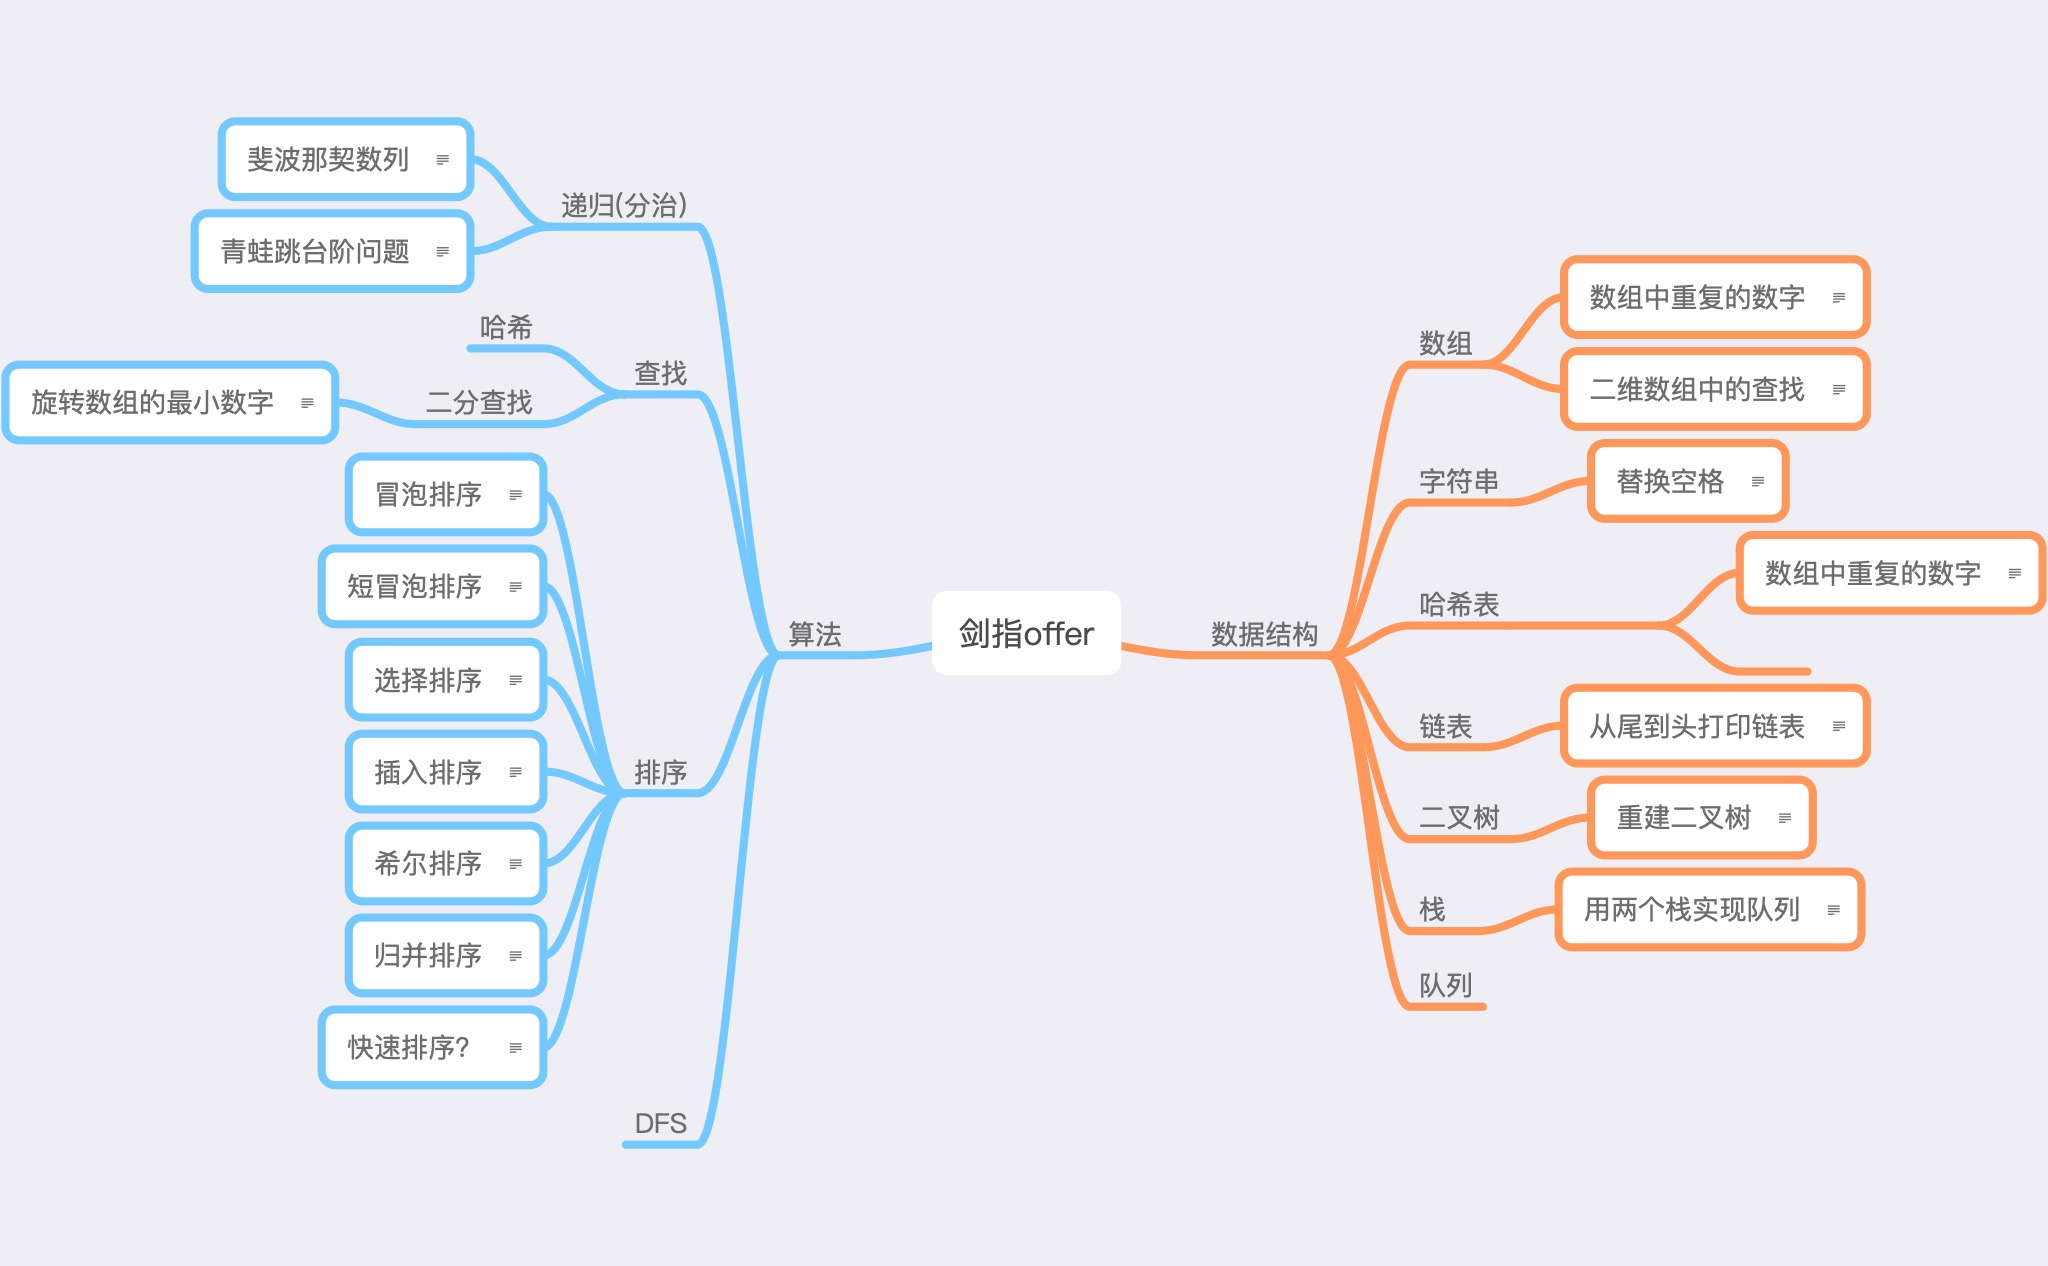
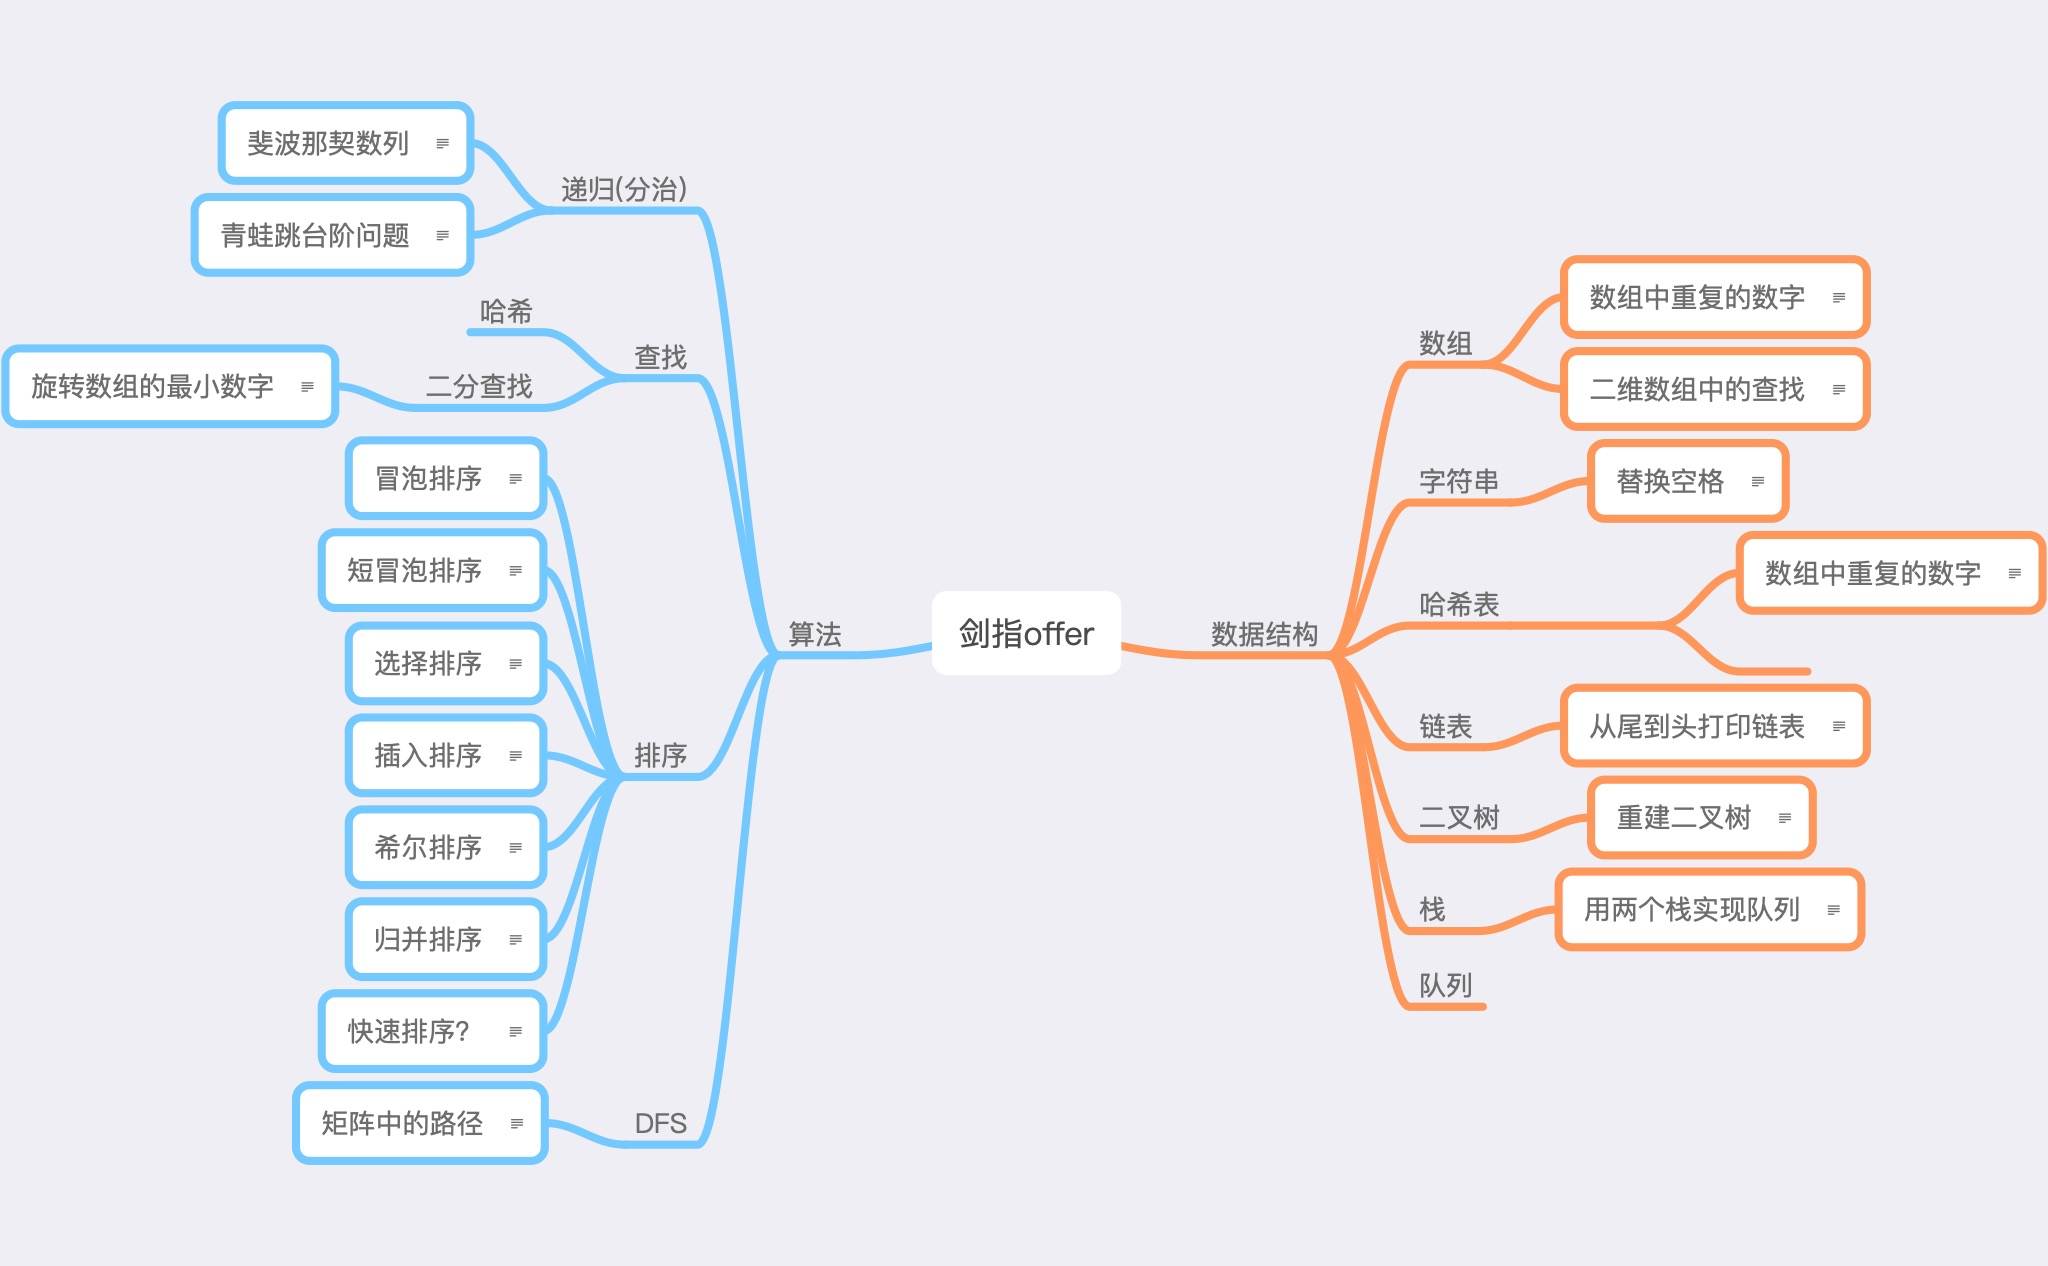
add

Changed region(s): [[0.0, 0.0616, 0.375, 0.9242], [0.3438, 0.1848, 0.375, 0.2156]]

diff --git a/offer-12/offer-12.py b/offer-12/offer-12.py
@@ -1,0 +1,45 @@
+#!/usr/bin/env python
+# -*- coding: utf-8 -*-
+# ylgongPw @ 2020-03-02 18:14:42
+
+from typing import List
+
+class Solution:
+    def exist(self, board: List[List[str]], word: str) -> bool:
+        """
+        DFS
+        """
+        rows = len(board)
+        cols = len(board[0])
+
+        def dfs(row, col, i):
+            if not 0 <= row < rows or not 0 <= col < cols or board[row][col] != word[i]:
+                return False
+            if i == len(word) - 1:
+                return True
+            tmp = board[row][col]
+            board[row][col] = '/' #已经遍历过,做标记
+
+            i += 1
+            res = dfs(row+1,col,i) or dfs(row-1,col,i) or dfs(row,col+1,i) or dfs(row,col-1,i)
+            board[row][col] = tmp #恢复
+            return res
+
+
+        for _row in range(rows):
+            for _col in range(cols):
+                if dfs(_row, _col, 0):
+                    return True
+
+        return False
+
+
+
+
+if __name__ == '__main__':
+    board = [["A","B","C","E"],["S","F","C","S"],["A","D","E","E"]]
+    word = "ABC"
+    S = Solution()
+    ret = S.exist(board, word)
+    print (ret)
+

diff --git a/interview_gold/interview_gold10.01/10.01.py b/interview_gold/interview_gold10.01/10.01.py
@@ -1,0 +1,49 @@
+#!/usr/bin/env python
+# -*- coding: utf-8 -*-
+# ylgongPw @ 2020-03-03 11:20:49
+from __future__ import unicode_literals
+from __future__ import absolute_import
+
+
+from typing import List
+
+class Solution:
+    def merge(self, A: List[int], m: int, B: List[int], n: int) -> None:
+        """
+        Do not return anything, modify A in-place instead.
+        A = [1,2,3,0,0,0], m = 3
+        B = [2,5,6],       n = 3
+
+        输出: [1,2,2,3,5,6]
+        """
+        pa = m - 1 #最后一位
+        pb = n - 1 #最后一位
+        tail = m + n - 1
+
+        while pa >= 0 or pb >= 0:
+            print (pb)
+            if pa == -1:
+                A[tail] = B[pb]
+                pb -= 1
+            elif pb == -1:
+                A[tail] = A[pa]
+                pa -= 1
+            elif A[pa] > B[pb]:
+                A[tail] = A[pa]
+                pa -= 1
+            else:
+                A[tail] = B[pb]
+                pb -= 1
+            tail -= 1
+
+if __name__ == '__main__':
+    A = [1,2,3,0,0,0]
+    m = 3
+    B = [2,5,6]
+    n = 3
+
+    S = Solution()
+    ret = S.merge(A,m,B,n)
+    print (ret)
+
+

diff --git a/offer-13/offer-13.py b/offer-13/offer-13.py
@@ -1,0 +1,39 @@
+#!/usr/bin/env python
+# -*- coding: utf-8 -*-
+# ylgongPw @ 2020-03-02 20:36:17
+from __future__ import unicode_literals
+from __future__ import absolute_import
+
+class Solution:
+    def movingCount(self, m: int, n: int, k: int) -> int:
+        counts = 0
+        rows = m
+        cols = n
+
+        stack = [(0,0)]
+        points = [(0,1),(0,-1),(1,0),(-1,0)]
+        visited = set()
+        visited.add("00")
+
+        while stack:
+            row,col = stack.pop()
+            if row + col <= k:
+                counts += 1
+
+            for p in points:
+                tmp_row = row + p[0]
+                tmp_col = col + p[1]
+                _str = "{}{}".format(tmp_row,tmp_col)
+                if 0 <= tmp_row < rows and 0<= tmp_col < cols and _str not in visited:
+                    visited.add(_str)
+                    stack.append((tmp_row,tmp_col))
+        return counts
+
+if __name__ == '__main__':
+    m = 11
+    n = 8
+    k = 17
+    S = Solution()
+    counts = S.movingCount(m,n,k)
+    print (counts)
+

diff --git a/offer-13/offer-13.1.py b/offer-13/offer-13.1.py
@@ -1,0 +1,25 @@
+#!/usr/bin/env python
+# -*- coding: utf-8 -*-
+# ylgongPw @ 2020-03-02 23:28:25
+from __future__ import unicode_literals
+from __future__ import absolute_import
+
+class Solution:
+    def movingCount(self, m: int, n: int, k: int) -> int:
+        def dfs(i, j, si, sj):
+            if not 0 <= i < m or not 0 <= j < n or k < si + sj or (i, j) in visited: return 0
+            visited.add((i,j))
+            return 1 + dfs(i + 1, j, si + 1 if (i + 1) % 10 else si - 8, sj) + dfs(i, j + 1, si, sj + 1 if (j + 1) % 10 else sj - 8)
+
+        visited = set()
+        return dfs(0, 0, 0, 0)
+
+
+if __name__ == '__main__':
+    m = 11
+    n = 8
+    k = 16
+    S = Solution()
+    counts = S.movingCount(m,n,k)
+    print (counts)
+

diff --git a/offer-12/offer-12.md b/offer-12/offer-12.md
@@ -1,0 +1,37 @@
+# 题目描述 
+
+```
+请设计一个函数，用来判断在一个矩阵中是否存在一条包含某字符串所有字符的路径。路径可以从矩阵中的任意一格开始，每一步可以在矩阵中向左、右、上、下移动一格。如果一条路径经过了矩阵的某一格，那么该路径不能再次进入该格子。例如，在下面的3×4的矩阵中包含一条字符串“bfce”的路径（路径中的字母用加粗标出）。
+
+[["a","b","c","e"],
+["s","f","c","s"],
+["a","d","e","e"]]
+
+但矩阵中不包含字符串“abfb”的路径，因为字符串的第一个字符b占据了矩阵中的第一行第二个格子之后，路径不能再次进入这个格子。
+
+示例 1：
+
+输入：board = [["A","B","C","E"],["S","F","C","S"],["A","D","E","E"]], word = "ABCCED"
+输出：true
+示例 2：
+
+输入：board = [["a","b"],["c","d"]], word = "abcd"
+输出：false
+
+来源：力扣（LeetCode）
+链接：https://leetcode-cn.com/problems/ju-zhen-zhong-de-lu-jing-lcof
+著作权归领扣网络所有。商业转载请联系官方授权，非商业转载请注明出处。
+```
+
+# 解题思路
+* 使用递归配合dfs解答 
+* 遍历每一个节点作为起始节点，在dfs中遍历该节点的上 下 左 右 如果遇到不等于目标值的,直接返回False
+
+
+
+## 解题代码
+
+[矩阵中的路径](offer-12.py)
+
+
+ 

diff --git a/interview_gold/interview_gold10.01/10.01.md b/interview_gold/interview_gold10.01/10.01.md
@@ -1,0 +1,33 @@
+# 题目描述 
+
+```
+给定两个排序后的数组 A 和 B，其中 A 的末端有足够的缓冲空间容纳 B。 编写一个方法，将 B 合并入 A 并排序。
+
+初始化 A 和 B 的元素数量分别为 m 和 n。
+
+示例:
+
+输入:
+A = [1,2,3,0,0,0], m = 3
+B = [2,5,6],       n = 3
+
+输出: [1,2,2,3,5,6]
+
+
+来源：力扣（LeetCode）
+链接：https://leetcode-cn.com/problems/sorted-merge-lcci
+著作权归领扣网络所有。商业转载请联系官方授权，非商业转载请注明出处。
+```
+
+# 解题思路
+
+* 都是有序数组
+* 使用两个指针，逆序开始比较
+* 大的数字，放在最后一位，指针减一
+
+
+## 解题代码
+
+[合并排序的数组](10.01-my.py)
+
+ 

diff --git a/offer.md b/offer.md
@@ -9,3 +9,5 @@
 | 面试题-10.1 | 简单 | [斐波那契数列](offer-10.1/offer-10.1.md) |  |
 | 面试题-10.2 | 简单 | [青蛙跳台阶问题](offer-10.2/offer-10.2.md) |  |
 | 面试题-11 | 简单 | [旋转数组的最小数字](offer-11/offer-11.md) |  |
+| 面试题-12 | 中等 | [矩阵中的路径](offer-12/offer-12.md) |  |
+| 面试题-13 | 中等 | [机器人的运动范围](offer-13/offer-13.md) |  |

diff --git a/interview.md b/interview.md
@@ -1,0 +1,4 @@
+| 题号 | 难度 | 题解 | 频率  |
+| :------| :------ | :------ |  :------ |
+| 10.01-合并排序的数组 | 简单 | [合并排序的数组](interview_gold/interview_gold10.01/10.01.md) | Array+sort * |
+|
